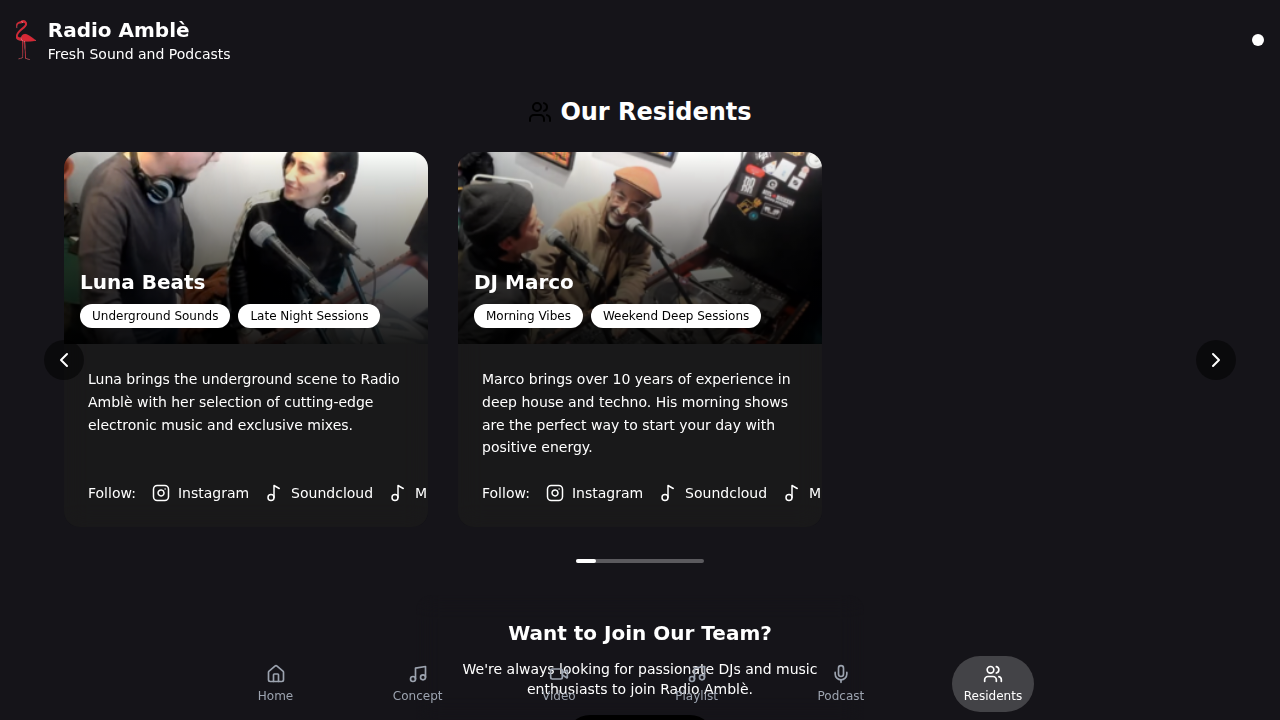
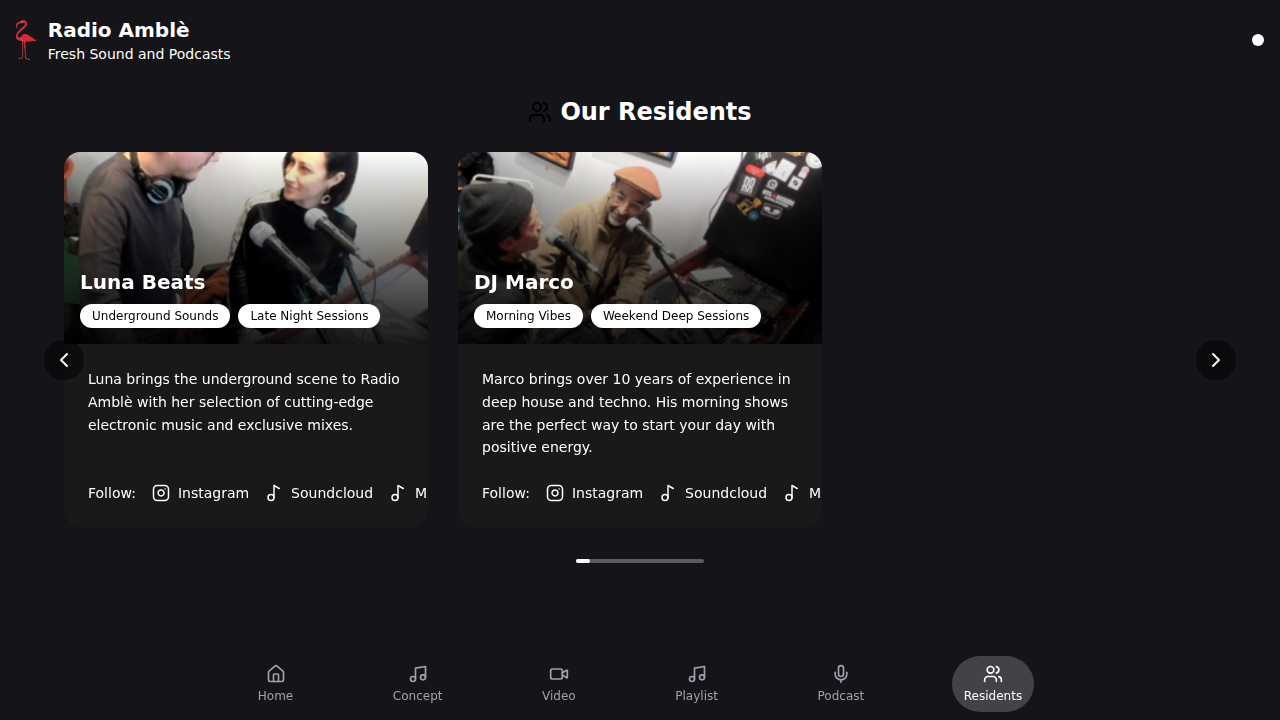
feat: Implement and style Swiper sliders
- Replaced the `embla-carousel-react` slider with `swiper` on the `PlaylistsPage` component.
- Installed `swiper` and removed `embla-carousel-react` and `embla-carousel-autoplay` dependencies.
- Implemented a new Swiper slider on the `ResidentsPage` to display resident cards in a carousel.
- Updated the `ResidentsPage` slider to display three slides per view with a centered active slide.
- Applied new styling to the `ResidentsPage`, including changing text and background colors and removing card borders.
- Removed the "Want to Join Our Team?" section from the `ResidentsPage`.
- Corrected styling and updated image URLs to ensure proper visual verification across all changes.

Changed region(s): [[0.3438, 0.9167, 0.625, 1.0], [0.0312, 0.0306, 0.1875, 0.0917], [0.375, 0.8556, 0.5938, 0.8861]]

diff --git a/src/components/ResidentsPage.tsx b/src/components/ResidentsPage.tsx
@@ -176,15 +176,6 @@ const ResidentsPage: React.FC = () => {
         />
       </div>
 
-      <div className="bg-gradient-to-r from-liquid-lava/20 to-liquid-lava/10 backdrop-blur-md rounded-2xl p-6 text-center mt-8 max-w-md">
-        <h3 className="text-white font-bold text-xl mb-3">Want to Join Our Team?</h3>
-        <p className="text-white text-sm mb-4">
-          We're always looking for passionate DJs and music enthusiasts to join Radio Amblè.
-        </p>
-        <button className="bg-black hover:bg-gray-800 text-white px-6 py-3 rounded-full font-medium transition-colors">
-          Get in Touch
-        </button>
-      </div>
     </div>
   );
 };
